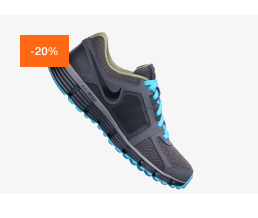
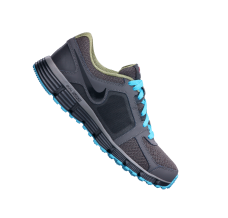
fix: component discount-card

Changed region(s): [[0.0614, 0.1376, 0.7982, 0.8807], [0.5526, 0.578, 0.5833, 0.6055]]

diff --git a/src/components/discount-card/discount-card.scss b/src/components/discount-card/discount-card.scss
@@ -1,3 +1,29 @@
+.dicsount-card {
+    position: relative;
+    .discount-card-chips {
+        position: absolute;
+        display: flex;
+        gap: 10px;
+        top: 20px;
+        left: 20px;
+    }
+    .dicsount-card-heart-icon {
+        width: 23px;
+        height: 20px;
+    }
+    .chips-discount-card {
+        background-color: #FF6915;
+        width: 49px;
+        height: 32px;
+        color: #fff;
+        font-size: 11px;
+        font-weight: 500;
+        line-height: 12px;
+        display: flex;
+        justify-content: center;
+        align-items: center;
+    }
+}
 @media screen  and (min-width: 1920px) {
     .dicsount-card {
         margin: 0 auto;
@@ -50,15 +76,16 @@
                 text-decoration: line-through;
                 color: #999999;
             }
-           img {
+            .dicsount-card__cart {
+                margin-left: 172px;
+           }
+           
+           .dicsount-card__cart-icon {
             width: 22px;
             height: 24px;
-            margin-left: 172px;
            }
         }
         .dicsount-card__favorite {
-            width: 23px;
-            height: 20px;
             margin-top: 20px;
             margin-right: 20px;
            }
@@ -121,15 +148,15 @@
                 text-decoration: line-through;
                 color: #999999;
             }
-           img {
+            .dicsount-card__cart {
+            margin-left: 165px;
+           }
+           .dicsount-card__cart-icon {
             width: 22px;
             height: 24px;
-            margin-left: 165px;
            }
         }
         .dicsount-card__favorite {
-            width: 23px;
-            height: 20px;
             margin-top: 20px;
             margin-right: 20px;
            }
@@ -192,21 +219,22 @@
                 text-decoration: line-through;
                 color: #999999;
             }
-           img {
-            width: 22px;
-            height: 24px;
+            .dicsount-card__cart {
             margin-left: 81px;
            }
+           .dicsount-card__cart-icon {
+            width: 22px;
+            height: 24px;
+           }
+           
         }
         .dicsount-card__favorite {
             display: none;
            }
            .dicsount-card__favorite-md {
-            width: 23px;
-            height: 20px;
            position: relative;
-           left: 140px;
-           top: -245px;
+           left: 200px;
+           top: -267px;
            }
     }
 }

diff --git a/src/components/discount-card/DiscountCard.js b/src/components/discount-card/DiscountCard.js
@@ -1,13 +1,12 @@
 import React from "react";
+import {BsHeart, BsBasket3 } from "react-icons/bs";
 import './discount-card.scss'
 import cardImg from './images/card-img.png'
 import  cardImgLg from './images/card-ing-bp-lg.png'
 import cardImgMd from './images/card-img-bp-md.png'
-import favorite from './images/favorite.png'
 import colorRed from './images/color-red.png'
 import colorGrey from './images/color-grey.png'
 import colorDgrey from './images/color-Dgrey.png'
-import cart from './images/cart.png'
 import '../../reset.scss'
 
 
@@ -15,17 +14,22 @@ function DiscountCard() {
     return (
         <div className="dicsount-card">
        <picture>
-            <source srcSet={ cardImgLg } media="(min-width: 768px) and (max-width: 1919px)" />
-            <source srcSet={ cardImgMd} media="(max-width: 767px)" />
-            <img src={cardImg} alt="img" />
+            <source srcSet={ cardImgLg } media="(min-width: 768px) and (max-width: 1919px)"  draggable="false" />
+            <source srcSet={ cardImgMd} media="(max-width: 767px)" draggable="false"  />
+            <img src={cardImg} alt="img" draggable="false" />
         </picture>
+        <div className="discount-card-chips">
+            <div className="chips-discount-card">20%</div>
+        </div>
         <div className="dicsount-card__description">
             <span className="dicsount-card__gender">
                 Жіночі
             </span>
             <h1  className="dicsount-card__name">
                  Nike Air VaporMax 2023 Flyknit
-                 <img className="dicsount-card__favorite-md" src={favorite} alt="favorite"/>
+                 <div className="dicsount-card__favorite-md">
+				<BsHeart className="dicsount-card-heart-icon" />
+                </div>
             </h1>
             <ul>
                 <li>
@@ -48,10 +52,14 @@ function DiscountCard() {
                 <h2 className="dicsount-card__price-original">
                     4805₴
                 </h2>
-                <img src={cart} alt="cart" />
+                <div className="dicsount-card__cart">		
+				    <BsBasket3 className="dicsount-card__cart-icon"/>
+				</div>
             </div>
         </div>
-        <img className="dicsount-card__favorite" src={favorite} alt="favorite"/>
+        <div className="dicsount-card__favorite">
+				<BsHeart className="dicsount-card-heart-icon"/>
+        </div>
         </div>
     )
 }

diff --git a/src/App.js b/src/App.js
@@ -2,6 +2,7 @@ import './App.css';
 import './reset.scss'
 import DiscountCard from './components/discount-card/DiscountCard'
 
+
 function App() {
   return (
     <div className="App">
